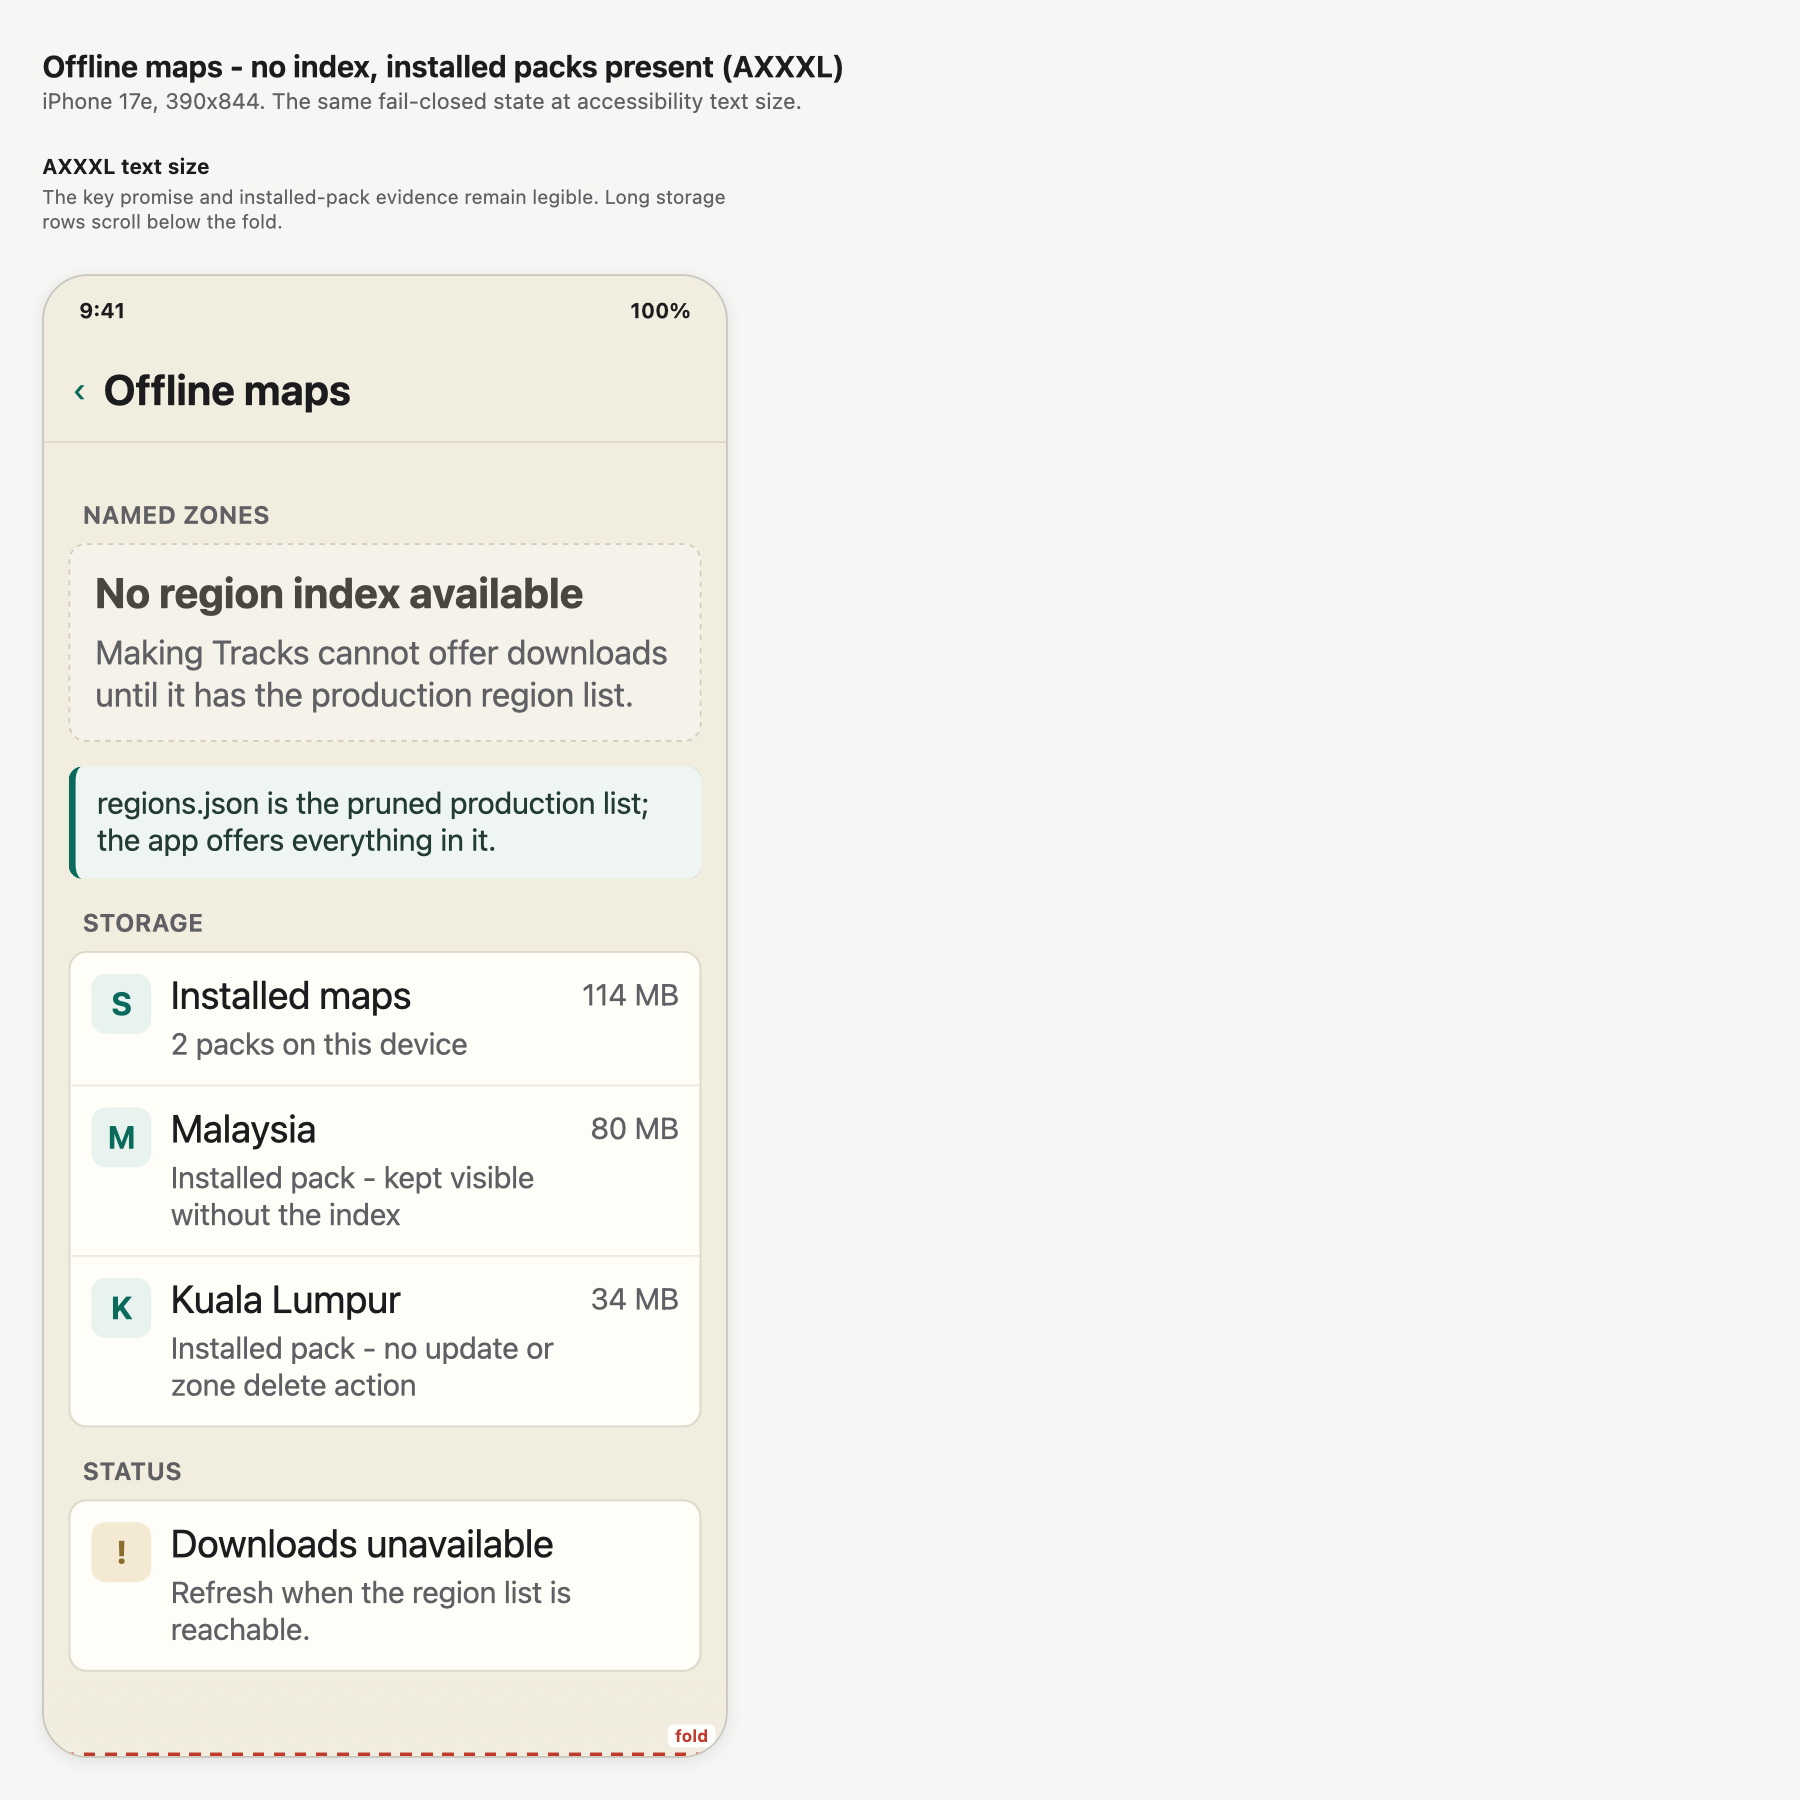
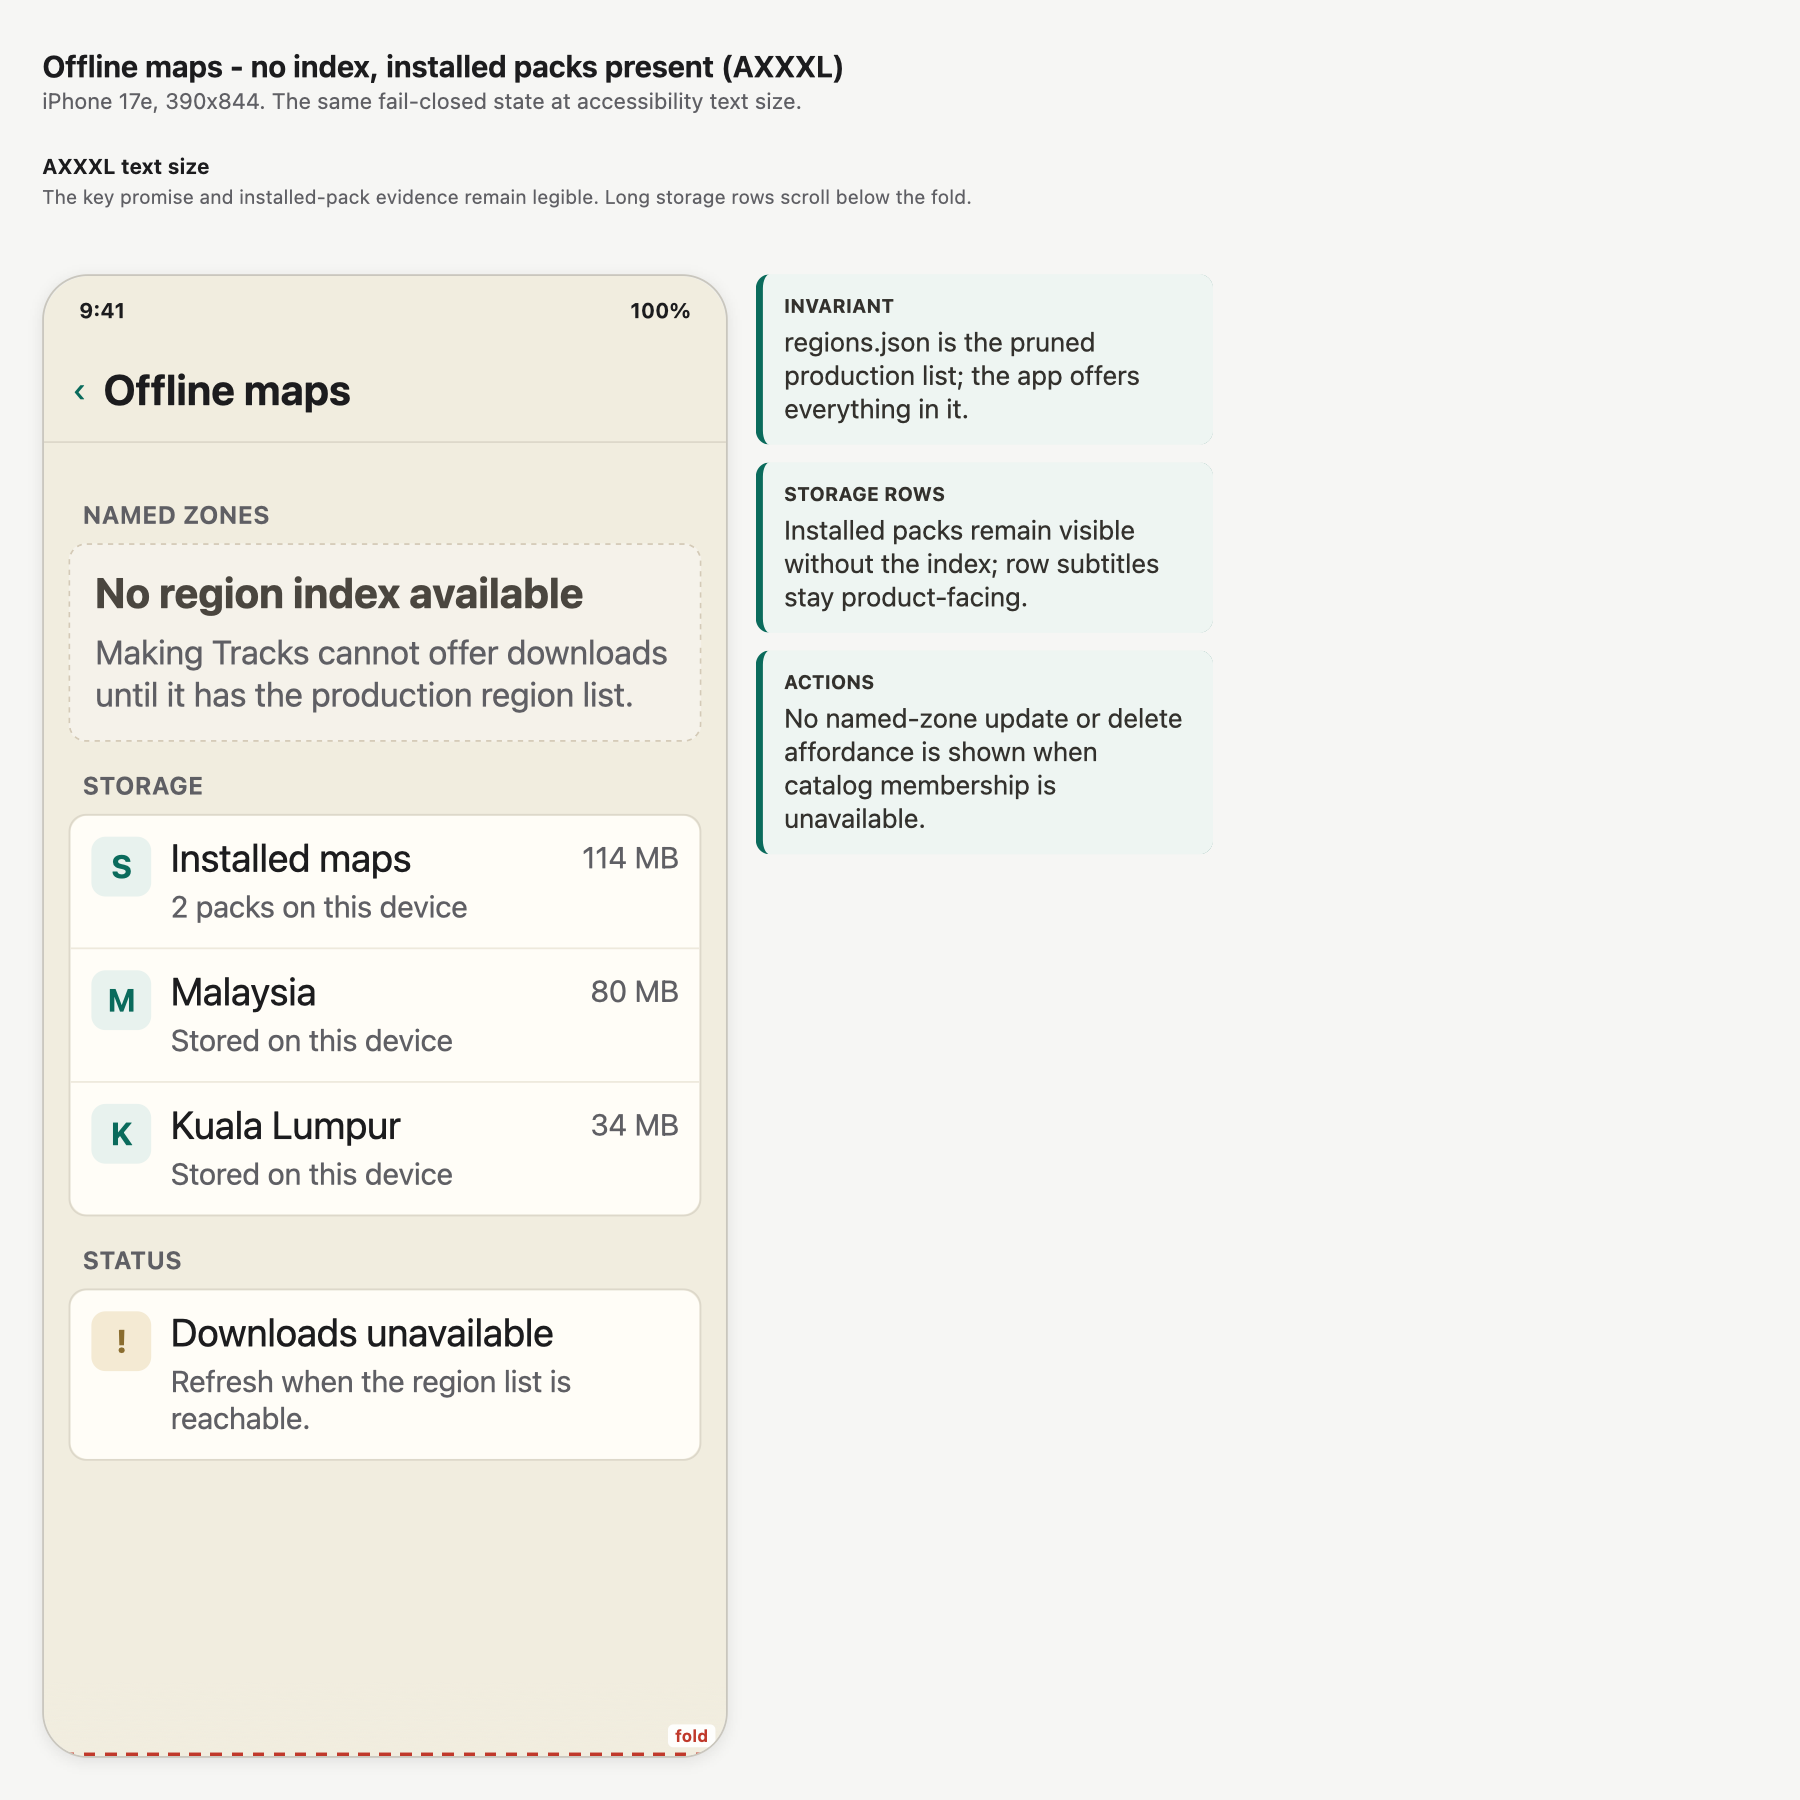
Move offline map render annotations out of frame

diff --git a/docs/design/offline-maps/wf-empty-installed-default.html b/docs/design/offline-maps/wf-empty-installed-default.html
@@ -23,9 +23,10 @@
     h1 { font-size: 17px; font-weight: 650; margin-bottom: 2px; }
     .sub { color: var(--dim); font-size: 12.5px; margin-bottom: 22px; }
     .row { display: flex; gap: 30px; align-items: flex-start; }
-    .col { width: 390px; }
+    .col { width: 650px; }
     .cap { font-size: 12px; font-weight: 650; margin-bottom: 3px; }
     .capsub { color: var(--dim); font-size: 11px; line-height: 1.35; margin-bottom: 9px; min-height: 30px; }
+    .mock { align-items: flex-start; display: flex; gap: 16px; }
     .phone {
       background: var(--paper);
       border: 1px solid #c9c6bd;
@@ -98,16 +99,22 @@
     }
     .empty h2 { font-size: 16px; line-height: 1.25; margin-bottom: 5px; }
     .empty p { color: var(--dim); font-size: 13px; line-height: 1.4; }
-    .note {
+    .annotations {
+      color: #33312d;
+      display: flex;
+      flex-direction: column;
+      gap: 10px;
+      width: 230px;
+    }
+    .annotation {
       background: #eef5f2;
       border-left: 4px solid var(--accent);
       border-radius: 8px;
-      color: #233b35;
       font-size: 12px;
       line-height: 1.35;
-      margin-top: 14px;
       padding: 10px 12px;
     }
+    .annotation strong { display: block; font-size: 11px; margin-bottom: 3px; text-transform: uppercase; }
     .fold { border-top: 2px dashed #c0392b; bottom: 0; left: 0; position: absolute; right: 0; }
     .foldlab { background: rgba(255,255,255,.92); border-radius: 3px; bottom: 5px; color: #c0392b; font-size: 9.5px; font-weight: 650; padding: 1px 4px; position: absolute; right: 6px; }
   </style>
@@ -120,6 +127,7 @@
   <div class="col">
     <div class="cap">Default text size</div>
     <div class="capsub">Storage still explains local packs. Named zones are empty because catalog membership is the support gate.</div>
+    <div class="mock">
     <div class="phone">
       <div class="status"><span>9:41</span><span>100%</span></div>
       <div class="nav"><div class="back">&#8249; Menu</div><div class="title">Offline maps</div></div>
@@ -129,8 +137,6 @@
           <h2>No region index available</h2>
           <p>Making Tracks cannot offer downloads until it has the production region list.</p>
         </div>
-
-        <div class="note">regions.json is the pruned production list; the app offers everything in it.</div>
 
         <div class="section-title">Storage</div>
         <div class="card">
@@ -146,7 +152,7 @@
             <div class="icon">M</div>
             <div class="texts">
               <div class="primary">Malaysia</div>
-              <div class="secondary">Installed pack - kept visible without the index</div>
+              <div class="secondary">Stored on this device</div>
             </div>
             <div class="badge">80 MB</div>
           </div>
@@ -154,7 +160,7 @@
             <div class="icon">K</div>
             <div class="texts">
               <div class="primary">Kuala Lumpur</div>
-              <div class="secondary">Installed pack - no update/delete zone action</div>
+              <div class="secondary">Stored on this device</div>
             </div>
             <div class="badge">34 MB</div>
           </div>
@@ -172,6 +178,12 @@
         </div>
       </div>
       <div class="fold"></div><div class="foldlab">fold</div>
+    </div>
+    <div class="annotations" aria-hidden="true">
+      <div class="annotation"><strong>Invariant</strong>regions.json is the pruned production list; the app offers everything in it.</div>
+      <div class="annotation"><strong>Storage rows</strong>Installed packs remain visible without the index; the row copy stays product-facing.</div>
+      <div class="annotation"><strong>Actions</strong>No named-zone update or delete affordance is shown when catalog membership is unavailable.</div>
+    </div>
     </div>
   </div>
 </div>

diff --git a/docs/design/offline-maps/wf-empty-installed-axxxl.html b/docs/design/offline-maps/wf-empty-installed-axxxl.html
@@ -23,9 +23,10 @@
     h1 { font-size: 17px; font-weight: 650; margin-bottom: 2px; }
     .sub { color: var(--dim); font-size: 12.5px; margin-bottom: 22px; }
     .row { display: flex; gap: 30px; align-items: flex-start; }
-    .col { width: 390px; }
+    .col { width: 690px; }
     .cap { font-size: 12px; font-weight: 650; margin-bottom: 3px; }
     .capsub { color: var(--dim); font-size: 11px; line-height: 1.35; margin-bottom: 9px; min-height: 42px; }
+    .mock { align-items: flex-start; display: flex; gap: 16px; }
     .phone {
       background: var(--paper);
       border: 1px solid #c9c6bd;
@@ -106,16 +107,22 @@
     }
     .empty h2 { font-size: 24px; line-height: 1.15; margin-bottom: 8px; }
     .empty p { color: var(--dim); font-size: 19px; line-height: 1.28; }
-    .note {
+    .annotations {
+      color: #33312d;
+      display: flex;
+      flex-direction: column;
+      gap: 10px;
+      width: 260px;
+    }
+    .annotation {
       background: #eef5f2;
       border-left: 4px solid var(--accent);
       border-radius: 8px;
-      color: #233b35;
-      font-size: 17px;
+      font-size: 15px;
       line-height: 1.28;
-      margin-top: 14px;
       padding: 11px 12px;
     }
+    .annotation strong { display: block; font-size: 11px; margin-bottom: 4px; text-transform: uppercase; }
     .fade {
       background: linear-gradient(to bottom, rgba(241,237,223,0), var(--paper));
       bottom: 0;
@@ -136,6 +143,7 @@
   <div class="col">
     <div class="cap">AXXXL text size</div>
     <div class="capsub">The key promise and installed-pack evidence remain legible. Long storage rows scroll below the fold.</div>
+    <div class="mock">
     <div class="phone">
       <div class="status"><span>9:41</span><span>100%</span></div>
       <div class="nav"><div class="back">&#8249;</div><div class="title">Offline maps</div></div>
@@ -145,8 +153,6 @@
           <h2>No region index available</h2>
           <p>Making Tracks cannot offer downloads until it has the production region list.</p>
         </div>
-
-        <div class="note">regions.json is the pruned production list; the app offers everything in it.</div>
 
         <div class="section-title">Storage</div>
         <div class="card">
@@ -162,7 +168,7 @@
             <div class="icon">M</div>
             <div class="texts">
               <div class="primary">Malaysia</div>
-              <div class="secondary">Installed pack - kept visible without the index</div>
+              <div class="secondary">Stored on this device</div>
             </div>
             <div class="badge">80 MB</div>
           </div>
@@ -170,7 +176,7 @@
             <div class="icon">K</div>
             <div class="texts">
               <div class="primary">Kuala Lumpur</div>
-              <div class="secondary">Installed pack - no update or zone delete action</div>
+              <div class="secondary">Stored on this device</div>
             </div>
             <div class="badge">34 MB</div>
           </div>
@@ -189,6 +195,12 @@
       </div>
       <div class="fade"></div>
       <div class="fold"></div><div class="foldlab">fold</div>
+    </div>
+    <div class="annotations" aria-hidden="true">
+      <div class="annotation"><strong>Invariant</strong>regions.json is the pruned production list; the app offers everything in it.</div>
+      <div class="annotation"><strong>Storage rows</strong>Installed packs remain visible without the index; row subtitles stay product-facing.</div>
+      <div class="annotation"><strong>Actions</strong>No named-zone update or delete affordance is shown when catalog membership is unavailable.</div>
+    </div>
     </div>
   </div>
 </div>
